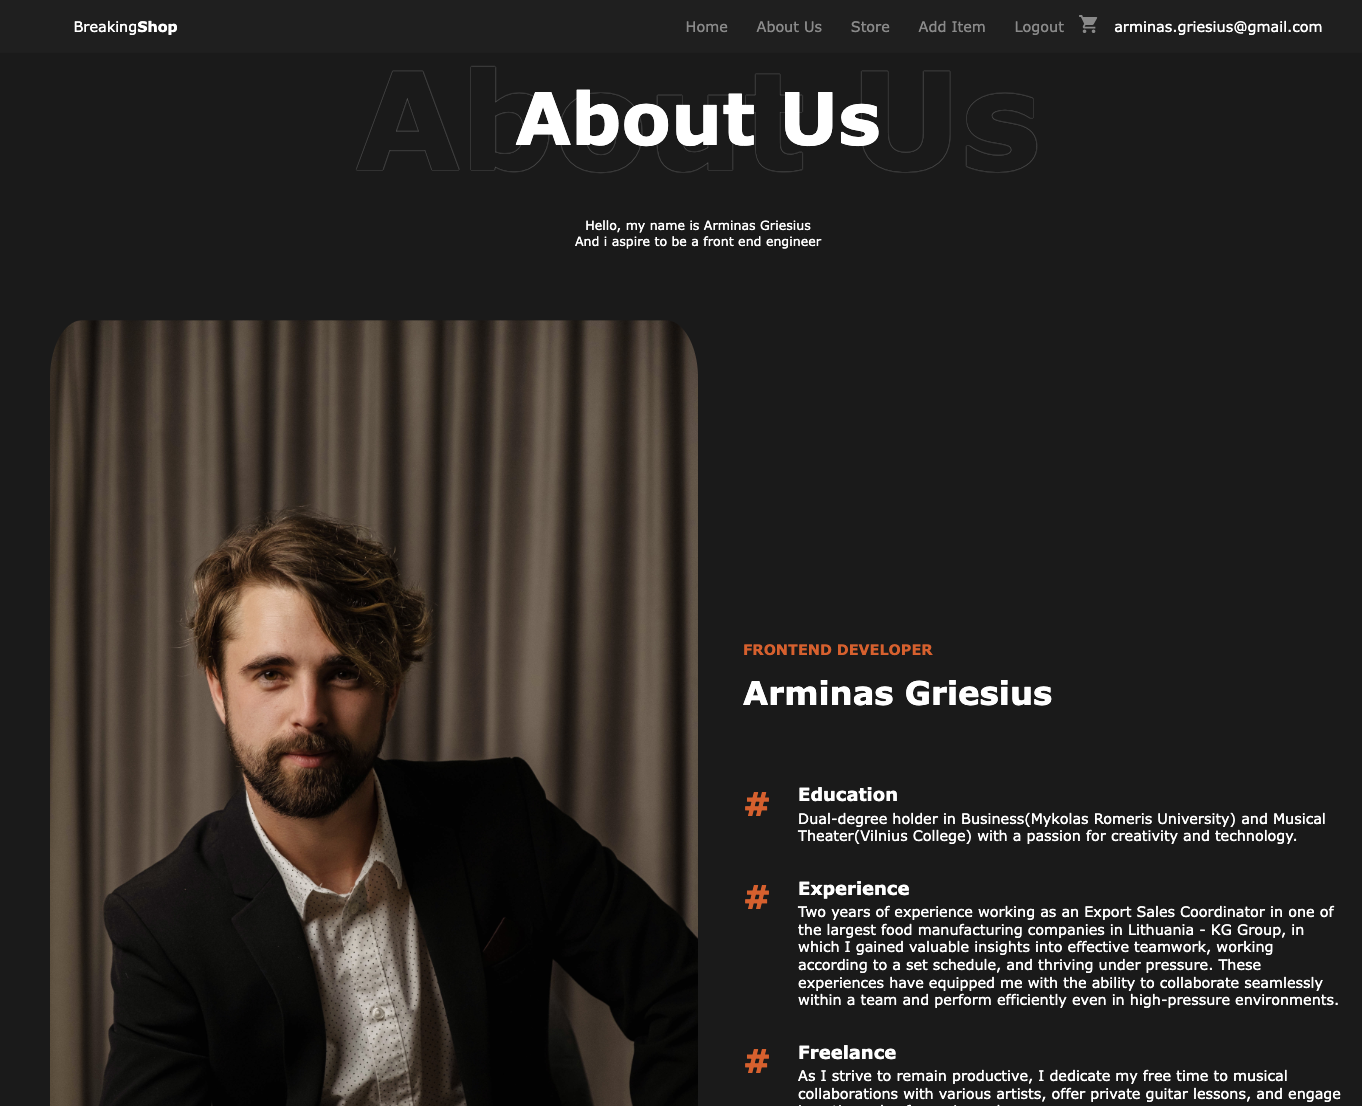
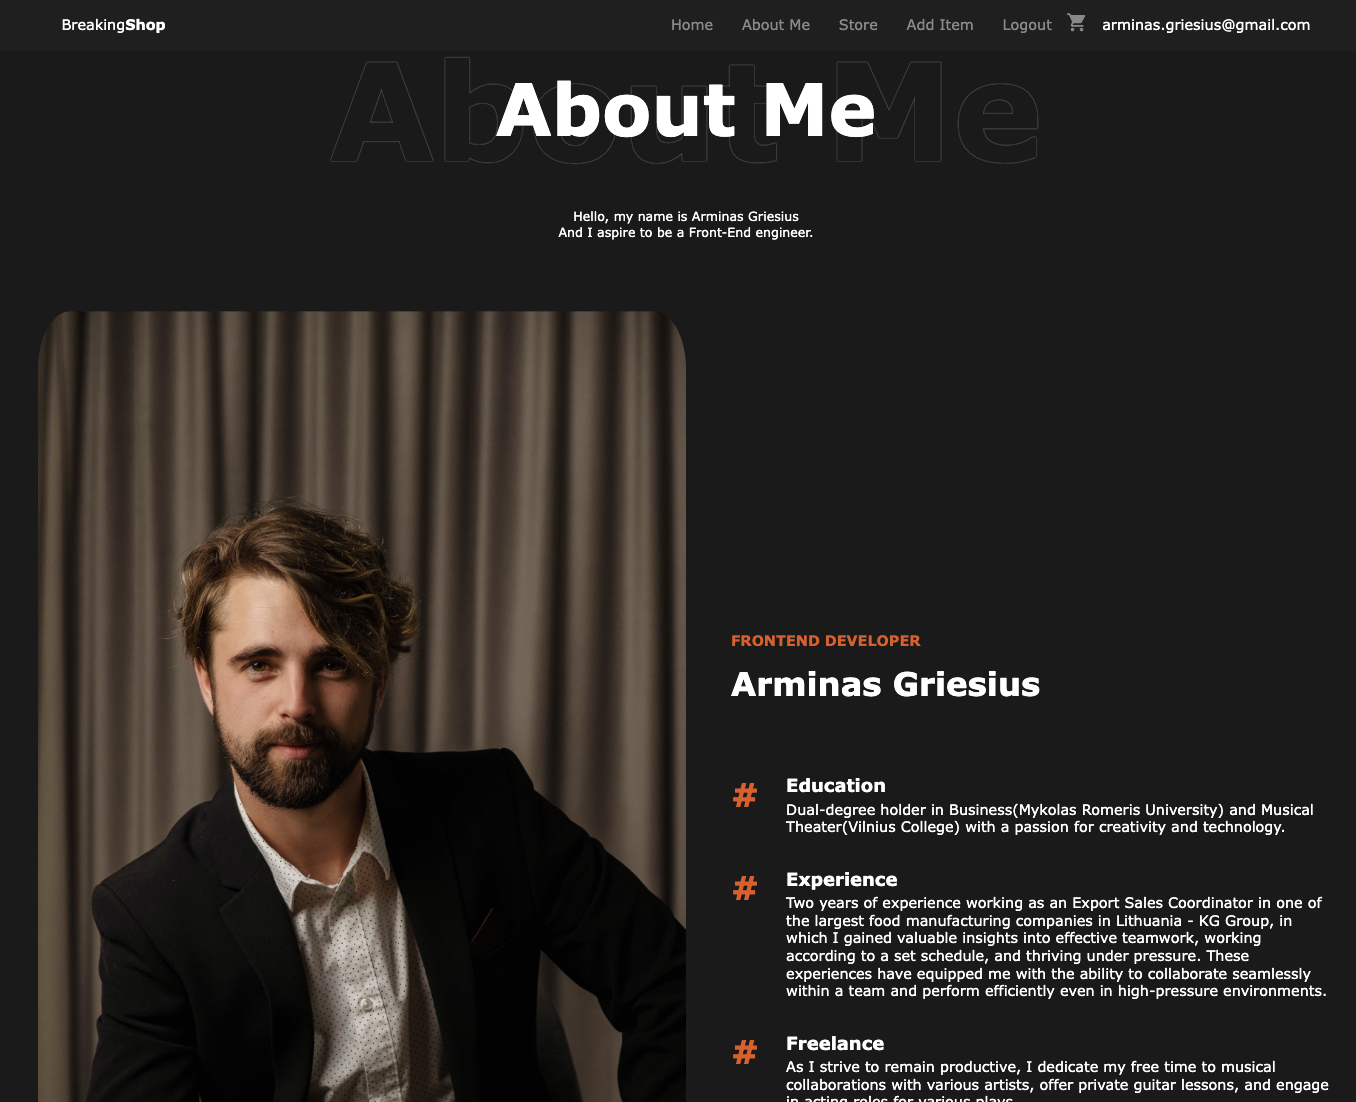
chore: changed screenshot in readme

diff --git a/README.md b/README.md
@@ -33,7 +33,7 @@ With this project, my goal is not only to showcase my technical proficiency but 
 ![Store](screenshots/2.png)
 
 `/about`
-![About Us](screenshots/3.png)
+![About Me](screenshots/3.png)
 
 `/passion-music`
 ![Passions](screenshots/4.png)
